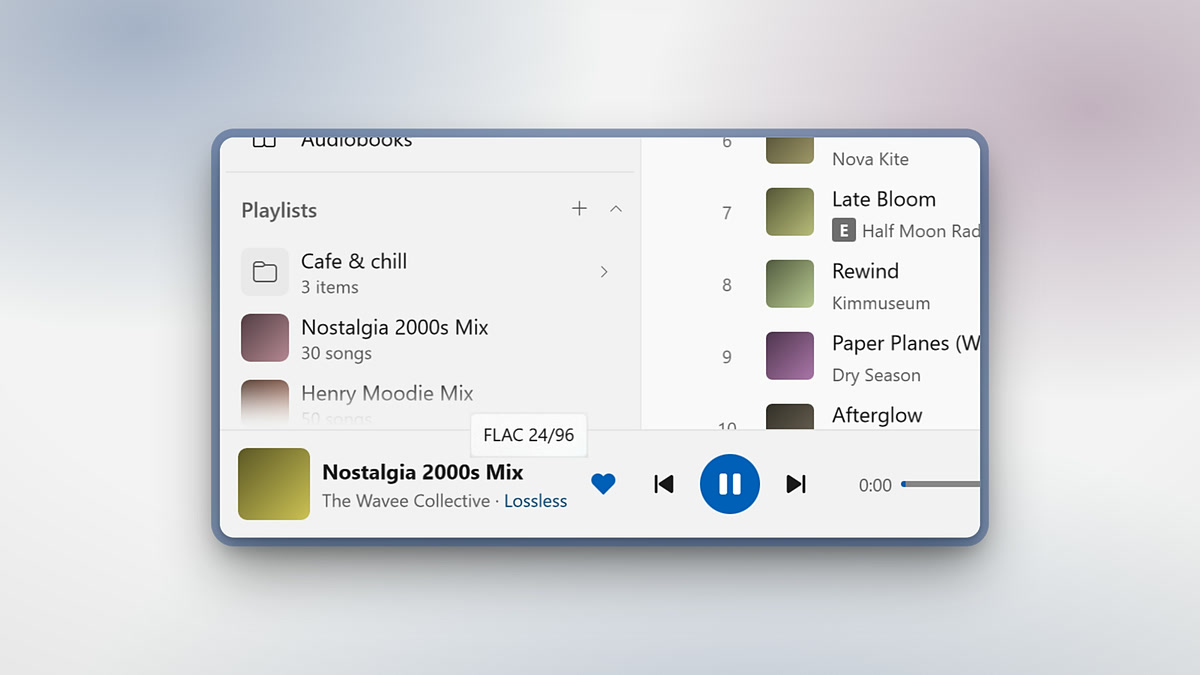
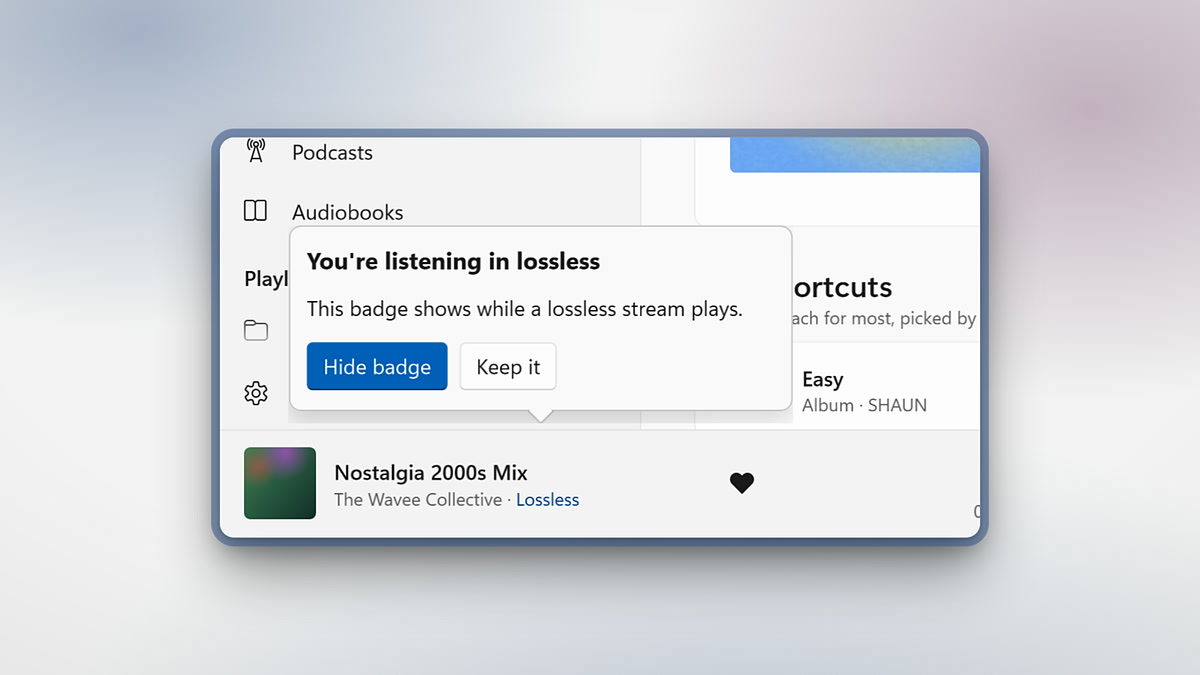
release 0.3.12: CHANGELOG gains the website link, smooth song changes, the shortcuts pages, the Canvas fade and Lossless in every theme
The five change files merged after the first assembly (#265 to #269) are folded into the
curated [0.3.12] section by hand: the assembler refuses a section that already exists. The
Lossless entry becomes one entry for every theme, and the contract's 2.8 entry gains
HintProps.DismissLabel (one additive bump for the release, so the version stays 2.8). The
Lossless highlight's image is WinUI's bar with the badge and its tip, dark and light.

diff --git a/CHANGELOG.md b/CHANGELOG.md
@@ -12,8 +12,10 @@ versions separately under `v*` and is not tracked in this file.)
 
 ### Added
 
-- **Lossless in the player bar.** While a lossless stream plays, Classic's artist line ends with "· Lossless"; hover it
-  for the exact format, such as FLAC 24/96. A community contribution from @0dm, thank you. (#227)
+- **Lossless in the player bar, in every theme.** While a lossless stream plays, the artist line ends with "· Lossless"
+  in Classic, WinUI and Zune (Zune's in its lowercase); hover it for the exact format, such as FLAC 24/96. Settings >
+  Sound > Quality has a "Show the Lossless badge" switch to hide it, and when the badge first appears a small tip above
+  the player bar asks whether to hide it or keep it. The badge is a community contribution from @0dm, thank you. (#227)
 - **Close the bar about songs that can't be played.** Its new ✕ hides it on that list until Wavee restarts; other lists
   still show theirs. A community contribution from @0dm, thank you. (#231)
 
@@ -24,9 +26,14 @@ versions separately under `v*` and is not tracked in this file.)
   sliver of volume. A community contribution from @0dm, thank you. (#256)
 - **A Home shelf's page dots fade in and out in Classic.** When resizing the window changes how many pages a shelf has,
   the dot that comes or goes fades instead of popping.
+- **Settings links to Wavee's new website.** The Website link in Settings > Help & about > Links now opens
+  www.cproducts.dev/wavee; the source code on GitHub is one row below it, "Source on GitHub".
 
 ### Fixed
 
+- **Smooth song changes.** Starting another song or pressing Next no longer lets the old song crackle out for a moment
+  or clips the first fraction of a second off the new one, most noticeable on Bluetooth headphones: the old song fades
+  out and the new one starts from its very first note, without Wavee closing and reopening your speakers in between.
 - **Liked Songs plays on your other device.** While a phone or another computer is playing, clicking a song in Liked
   Songs now starts it there, from that song, instead of stopping the other device. If Wavee cannot start Liked Songs
   there, it leaves that device playing and tells you.
@@ -65,6 +72,14 @@ versions separately under `v*` and is not tracked in this file.)
   for once per session. Home now asks for the new picks' songs as they arrive, a pick whose card changed shows its own
   songs instead of the previous card's, and a pick that has none shows its cover instead of empty tiles. All themes; the
   Release Spotlight's songs too.
+- **Your shortcuts keep their shape when the window changes.** After the side panel opened or the window was resized,
+  the shortcuts grid on Home kept the width it had before: tiles in one row came out different sizes, the last tile ran
+  past the edge, and turning the page showed a cut-off piece of the page before it and a tile with no picture or name.
+  In every theme, each page is now exactly as wide as the grid and the tiles follow a new width at once. In WinUI and
+  Zune, the arrow that appears on hover to go to the next page now sits on the right edge, not the left.
+- **The Canvas in the side panel's Now playing follows the panel.** While you drag the panel wider or narrower in WinUI,
+  the fade over the Canvas video now resizes with it instead of hanging as a pale box over the picture, and in the
+  light theme the thin grey line between the faded Canvas and "Next up" is gone. Zune's panel gets the same fixes.
 - **Date added shows whenever the song list has room for it.** A playlist or Liked Songs no longer hides its Date added
   column in a mid-size window or beside a docked queue while the title column has plenty of space (WinUI, and Classic
   and Zune in a small window). In WinUI, where the Album column does not fit, the album moves next to the artist under

diff --git a/docs/themes/contract-history.md b/docs/themes/contract-history.md
@@ -18,6 +18,8 @@ first: a version that names a branch (`pinned-home 1.117`) was numbered on that 
   a grip on the aside's edge and commits the width on release; 0 = never dragged) (#229)
 - the optional `TrackUnavailableBarArgs.Dismiss` / `.DismissLabel` (the unavailable bar's close button, per list until
   the app restarts) (#231)
+- the optional `HintProps.DismissLabel` (a hint's own words for its dismiss, such as Keep it on the Lossless badge's tip;
+  null = the theme's usual Not now or close glyph)
 
 ## Before 2026-11-20 (hand-written, oldest first)
 
